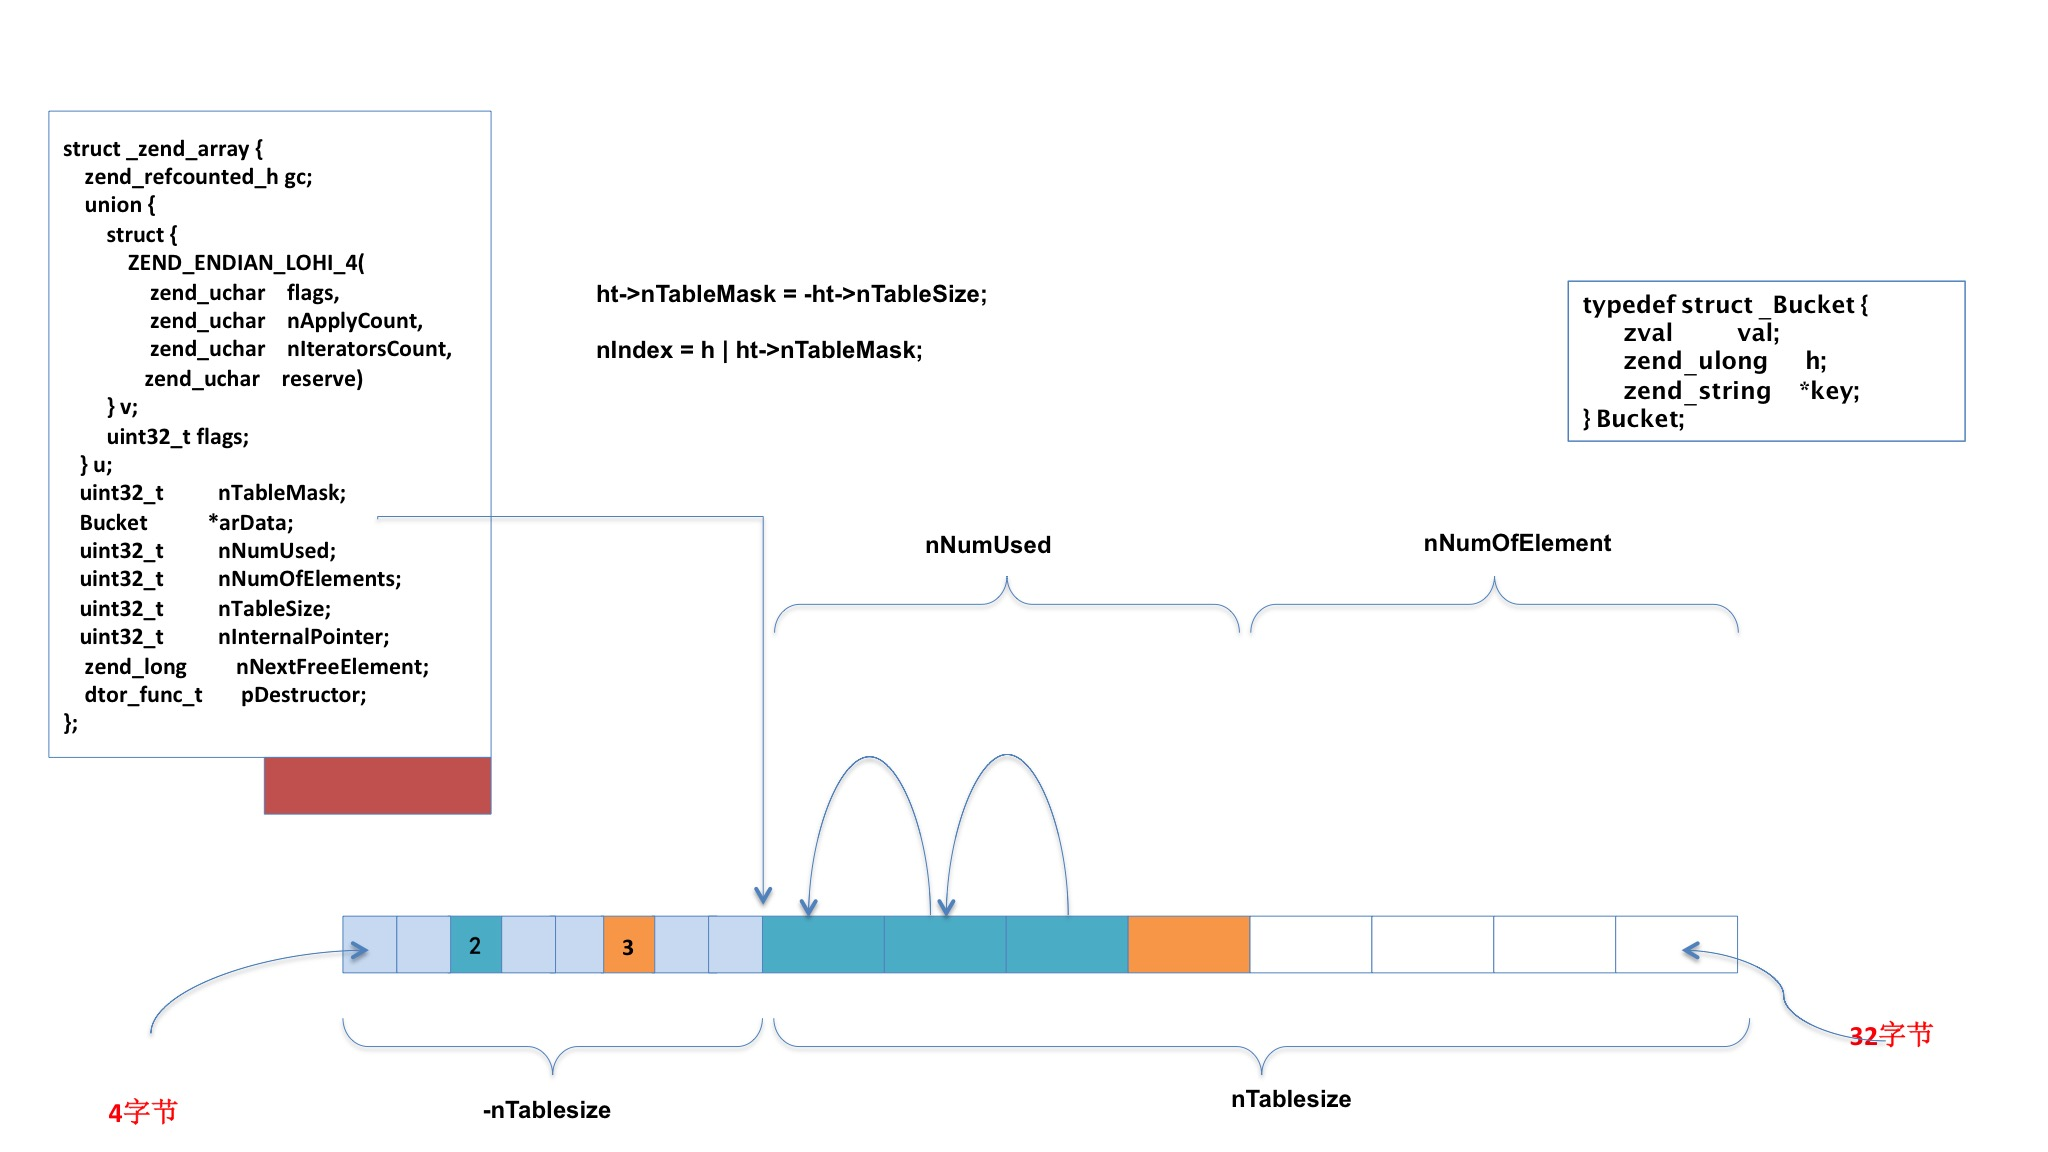
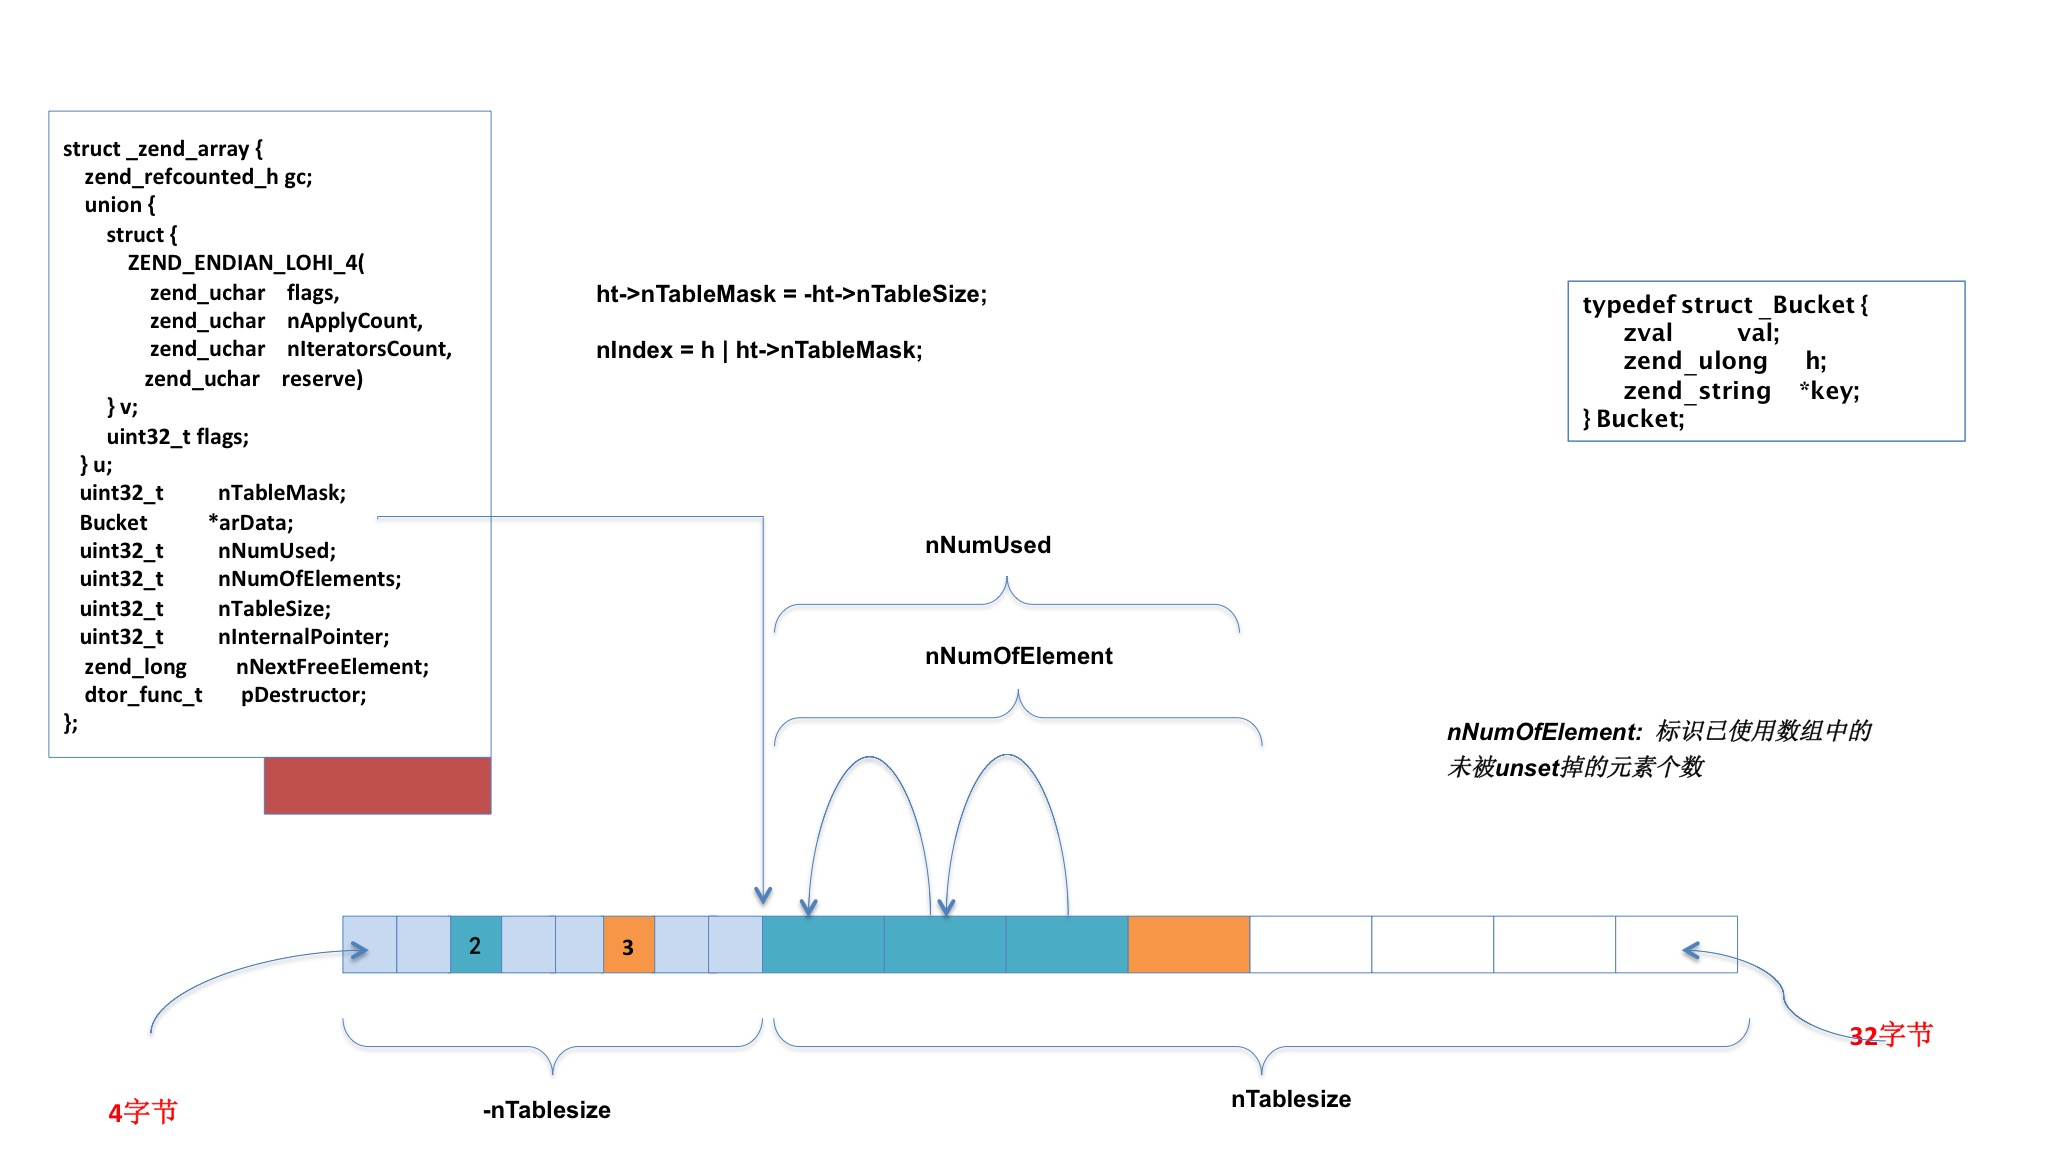
add

Changed region(s): [[0.6875, 0.625, 0.9062, 0.6875], [0.6875, 0.4688, 0.7812, 0.5312], [0.4375, 0.5625, 0.5312, 0.5938]]

diff --git a/_posts/2018-10-10-PHP内核-源码5.4和7之间Hashtable的变化.md b/_posts/2018-10-10-PHP内核-源码5.4和7之间Hashtable的变化.md
@@ -292,8 +292,6 @@ $189 = {{val = {value = {lval = 4309655712, dval = 2.1292528327026972e-314, coun
 {% endhighlight %}
 
 
-我们在对比一下php5.4的hashtable，发现一个有意思的问题，原来hashtable的nNumUsed字段，在count的时候，可以直接使用来统计hashtable的数据个数，而在php7.0中则标识的含义发生了变化，在php7.0中，hashtable的nNumUsed字段统计的是申请的连续内存中bucket占用的个数，那么这样的话，在发生`unset`操作的时候，`nNumUsed`失去统计作用，而php7.0没有新加字段来维护这个统计，导致，`count`的时间复杂度变差了，这一点很有意思。
-
 当然，php7.0还有很多hash操作，这里不一一分析，实际上通过上面一张图，我们基本知道，如果做`count`，`merge`，也知道数据的遍历，php还可以和原来一样，保证顺序，对于`sort`操作， 有时间可以看一下
 
 

diff --git a/_posts/2014-10-10-nginx源码八：nginx负载均衡设计.md b/_posts/2014-10-10-nginx源码八：nginx负载均衡设计.md
@@ -1,0 +1,6 @@
+---
+layout: content
+title: nginx源码八：nginx负载均衡机制
+category: nginx
+---
+
